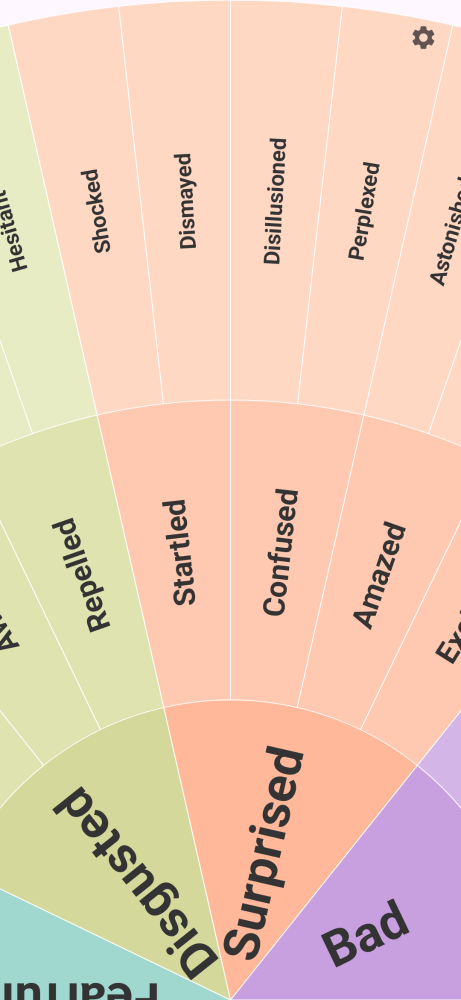
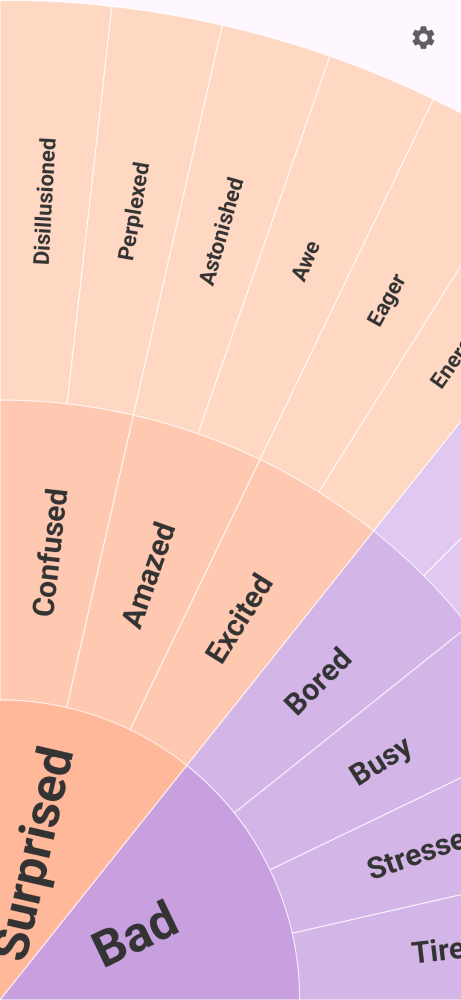
Show top right of the wheel

diff --git a/app/src/main/java/com/nuttyknot/feelingswheel/ui/components/FeelingsWheel.kt b/app/src/main/java/com/nuttyknot/feelingswheel/ui/components/FeelingsWheel.kt
@@ -66,7 +66,7 @@ fun FeelingsWheel(
                         activeFlingJob?.cancel()
                         activeFlingJob = null
 
-                        val centerX = size.width / 2f
+                        val centerX = 0f
                         val centerY = size.height.toFloat()
 
                         var prevAngle =
@@ -135,7 +135,7 @@ fun FeelingsWheel(
                                 HitTestUtils.hitTest(
                                     touchX = down.position.x,
                                     touchY = down.position.y,
-                                    centerX = size.width / 2f,
+                                    centerX = 0f,
                                     centerY = size.height.toFloat(),
                                     wheelRadius = wheelRadius,
                                     rotationDegrees = rotation,
@@ -165,10 +165,10 @@ fun FeelingsWheel(
                     }
                 }.graphicsLayer {
                     rotationZ = rotation
-                    transformOrigin = TransformOrigin(0.5f, 1f)
+                    transformOrigin = TransformOrigin(0f, 1f)
                 },
     ) {
-        val center = Offset(size.width / 2f, size.height)
+        val center = Offset(0f, size.height)
         val wheelRadius = size.height
 
         drawWheel(
